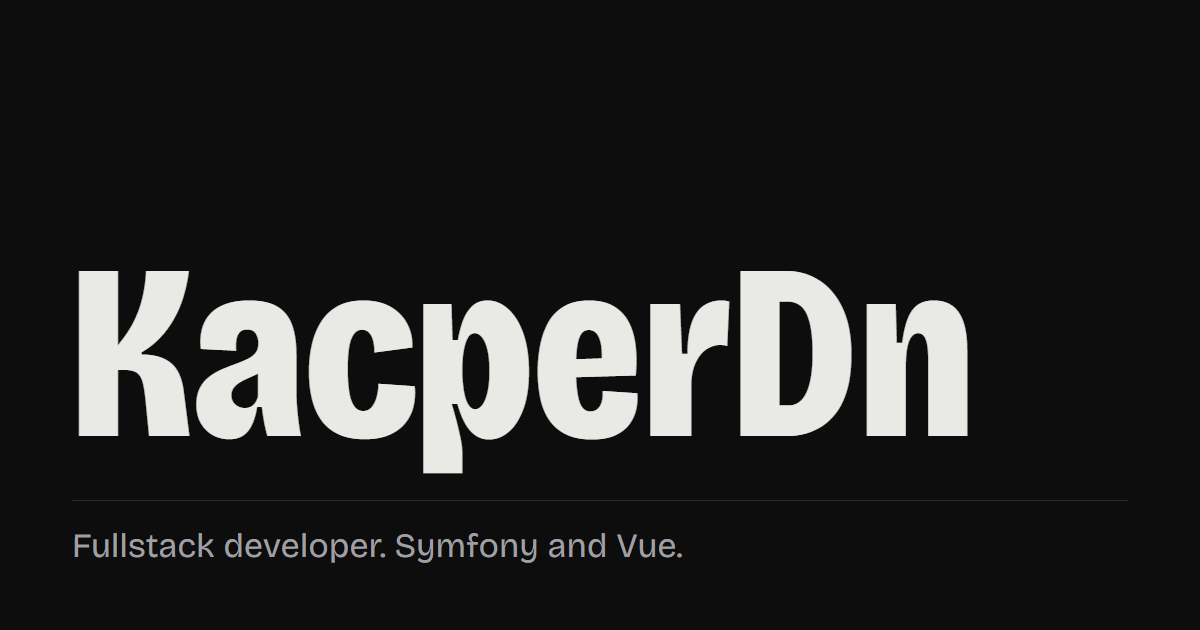
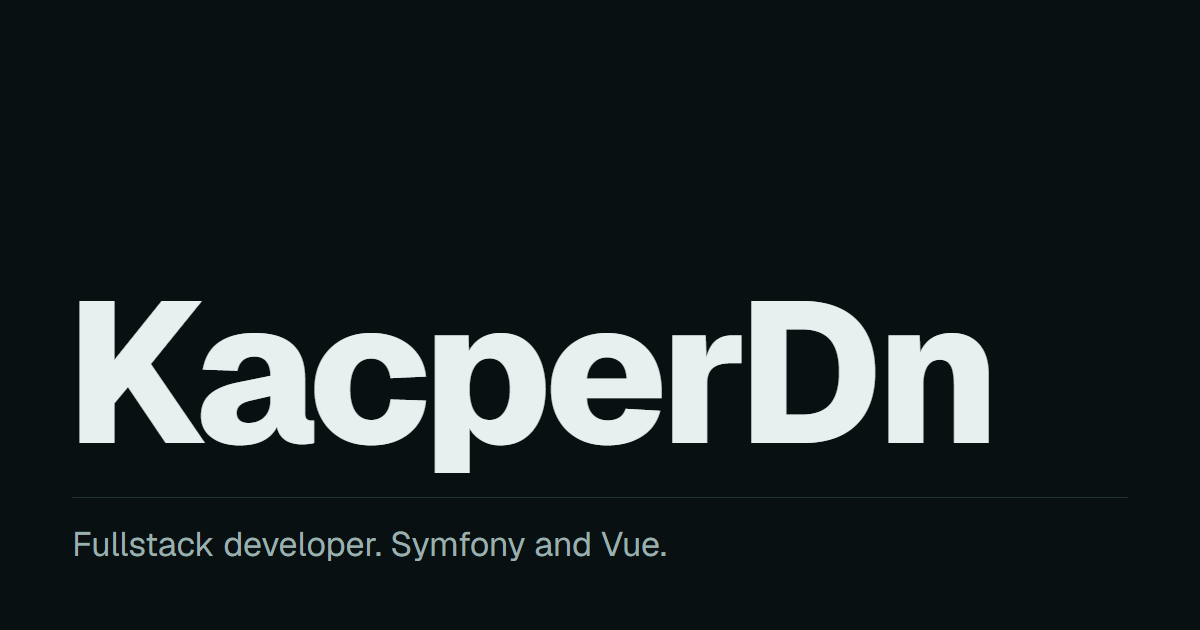
switch to an aqua palette, the Geist font and a phone tile grid

diff --git a/app/assets/css/tokens.css b/app/assets/css/tokens.css
@@ -1,12 +1,12 @@
 :root {
-  --ink: #0d0d0e;
-  --panel: #151517;
-  --line: #2c2c30;
-  --text: #e9e9e6;
-  --dim: #a0a0a4;
-  --ember: #ff5a1f;
+  --ink: #091011;
+  --panel: #111b1c;
+  --line: #213234;
+  --text: #e6f0ee;
+  --dim: #9bb0ae;
+  --accent: #2ee6d6;
 
-  --font-display: 'Bricolage Grotesque Variable', system-ui, sans-serif;
+  --font-display: 'Geist Variable', system-ui, sans-serif;
   --font-body: 'Newsreader Variable', Georgia, serif;
 
   --step--1: 0.9375rem;
@@ -15,7 +15,7 @@
   --step-2: 1.875rem;
   --step-3: clamp(2.25rem, 1.6rem + 2.4vw, 3.25rem);
   --step-4: clamp(1.75rem, 0.8rem + 3.2vw, 3.25rem);
-  --step-hero: clamp(3.75rem, 14vw, 14rem);
+  --step-hero: clamp(3.5rem, 9.7vw, 12rem);
 
   --leading-body: 1.65;
   --leading-display: 1;
@@ -24,11 +24,11 @@
   --gutter: clamp(1.25rem, 4vw, 3rem);
   --section-gap: clamp(4.5rem, 9vw, 8rem);
   --header-height: 3.5rem;
-  --focus-ring: 2px solid var(--ember);
+  --focus-ring: 2px solid var(--accent);
 }
 
 @media (max-width: 63.99rem) {
   :root {
-    --step-hero: calc((100vw - 2 * var(--gutter)) / 3.75);
+    --step-hero: calc((100vw - 2 * var(--gutter)) / 4.8);
   }
 }

diff --git a/app/components/TechCloud.vue b/app/components/TechCloud.vue
@@ -146,8 +146,8 @@ onBeforeUnmount(() => mm?.revert())
 }
 
 .tech__tile:hover {
-  border-color: var(--ember);
-  color: var(--ember);
+  border-color: var(--accent);
+  color: var(--accent);
 }
 
 .tech__name {
@@ -157,7 +157,7 @@ onBeforeUnmount(() => mm?.revert())
   font-family: var(--font-display);
   font-size: 0.8125rem;
   font-weight: 500;
-  color: var(--ember);
+  color: var(--accent);
   opacity: 0;
   transition: opacity 0.25s;
 }
@@ -168,11 +168,10 @@ onBeforeUnmount(() => mm?.revert())
 
 @media (max-width: 63.99rem) {
   .tech {
-    top: calc(var(--header-height) + 1.75rem);
-    left: var(--gutter);
-    right: auto;
-    bottom: auto;
-    width: min(34rem, calc(100% - 2 * var(--gutter)));
+    position: relative;
+    inset: auto;
+    width: min(34rem, 100%);
+    margin: 1.75rem 0 clamp(2rem, 7vw, 3.5rem);
     display: grid;
     grid-template-columns: repeat(4, minmax(0, 1fr));
     gap: 0.75rem;
@@ -189,6 +188,12 @@ onBeforeUnmount(() => mm?.revert())
 
   .tech__name {
     display: none;
+  }
+}
+
+@media (max-width: 47.99rem) {
+  .tech {
+    grid-template-columns: repeat(3, minmax(0, 1fr));
   }
 }
 

diff --git a/nuxt.config.ts b/nuxt.config.ts
@@ -3,7 +3,7 @@ export default defineNuxtConfig({
   devtools: { enabled: false },
   typescript: { strict: true },
   css: [
-    '@fontsource-variable/bricolage-grotesque/wdth.css',
+    '@fontsource-variable/geist/wght.css',
     '@fontsource-variable/newsreader/wght.css',
     'lenis/dist/lenis.css',
     '~/assets/css/tokens.css',
@@ -15,7 +15,7 @@ export default defineNuxtConfig({
       htmlAttrs: { lang: 'en' },
       meta: [
         { name: 'viewport', content: 'width=device-width, initial-scale=1' },
-        { name: 'theme-color', content: '#0D0D0E' },
+        { name: 'theme-color', content: '#091011' },
         { name: 'color-scheme', content: 'dark' }
       ],
       link: [{ rel: 'icon', type: 'image/svg+xml', href: '/favicon.svg' }]

diff --git a/app/assets/css/base.css b/app/assets/css/base.css
@@ -49,14 +49,14 @@ p + p {
 
 a {
   color: var(--text);
-  text-decoration-color: var(--ember);
+  text-decoration-color: var(--accent);
   text-decoration-thickness: 2px;
   text-underline-offset: 0.2em;
   transition: color 0.2s;
 }
 
 a:hover {
-  color: var(--ember);
+  color: var(--accent);
 }
 
 :focus-visible {
@@ -65,7 +65,7 @@ a:hover {
 }
 
 ::selection {
-  background: var(--ember);
+  background: var(--accent);
   color: var(--ink);
 }
 
@@ -75,7 +75,7 @@ a:hover {
   left: var(--gutter);
   z-index: 20;
   padding: 0.5rem 0.9rem;
-  background: var(--ember);
+  background: var(--accent);
   color: var(--ink);
   font-family: var(--font-display);
   font-weight: 600;

diff --git a/app/composables/useScrollMotion.ts b/app/composables/useScrollMotion.ts
@@ -14,13 +14,13 @@ export function useScrollMotion() {
   onMounted(() => {
     mm = gsap.matchMedia()
     mm.add('(prefers-reduced-motion: no-preference)', () => {
-      const ember = cssColor('--ember')
+      const accent = cssColor('--accent')
       const line = cssColor('--line')
 
       for (const el of gsap.utils.toArray<HTMLElement>('.rule-top')) {
         gsap.fromTo(
           el,
-          { '--rule': 0, '--rule-color': ember },
+          { '--rule': 0, '--rule-color': accent },
           {
             '--rule': 1,
             '--rule-color': line,

diff --git a/app/components/StackMarquee.vue b/app/components/StackMarquee.vue
@@ -141,9 +141,8 @@ onBeforeUnmount(() => mm?.revert())
   border-top: 1px solid var(--line);
   padding: 0.4rem 0 0.2rem;
   font-family: var(--font-display);
-  font-size: clamp(3rem, 8vw, 7rem);
+  font-size: clamp(2.5rem, 6vw, 5.5rem);
   font-weight: 800;
-  font-stretch: 75%;
   line-height: 1;
   text-transform: uppercase;
   cursor: grab;
@@ -172,6 +171,6 @@ onBeforeUnmount(() => mm?.revert())
 }
 
 .marquee__sep {
-  color: var(--ember);
+  color: var(--accent);
 }
 </style>

diff --git a/app/components/ContactSection.vue b/app/components/ContactSection.vue
@@ -53,7 +53,7 @@ const links = contactLinks.filter((link) => link.href)
 }
 
 .contact a {
-  background: linear-gradient(var(--ember), var(--ember)) no-repeat left / 0% 100%;
+  background: linear-gradient(var(--accent), var(--accent)) no-repeat left / 0% 100%;
   text-decoration: none;
   transition:
     background-size 0.4s cubic-bezier(0.2, 0.7, 0.2, 1),

diff --git a/README.md b/README.md
@@ -1,6 +1,6 @@
 # Portfolio
 
-Dark, raw portfolio: graphite background, one ember accent, hard rules and a 12-column grid. Left column holds the section title, the right one the content.
+Dark, raw portfolio: deep teal-black background, one aqua accent, hard rules and a 12-column grid. Left column holds the section title, the right one the content.
 
 Nuxt 4, TypeScript strict, GSAP + ScrollTrigger, Lenis. Fonts are self-hosted (`@fontsource-variable`), nothing is loaded from a CDN at runtime.
 
